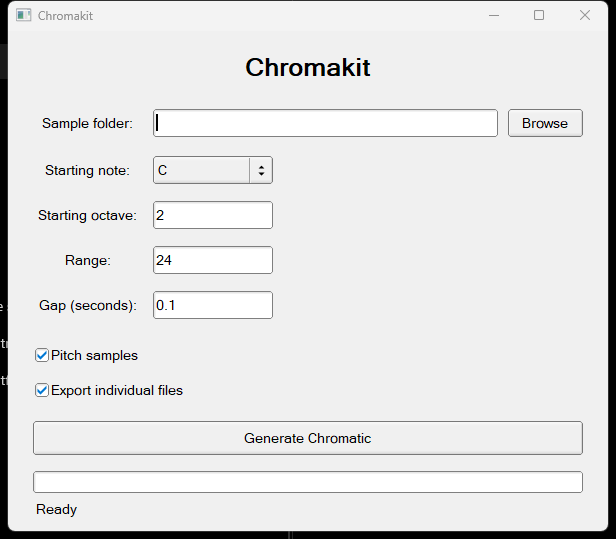
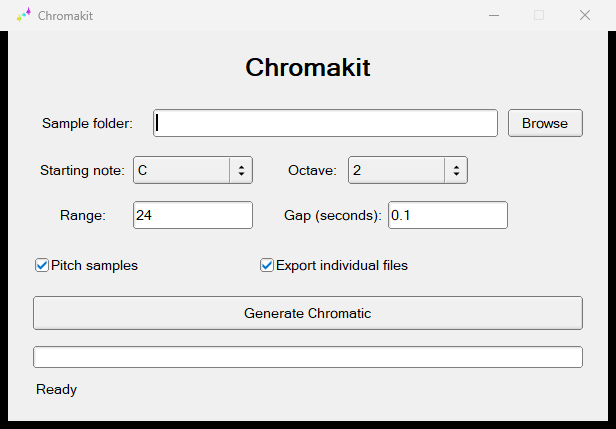
update readme pics

diff --git a/README.md b/README.md
@@ -7,7 +7,13 @@ Chromakit was previously developed under the codename Auralis.
 > [!WARNING]
 > Chromakit is in alpha. It is still barebones and will get updates as the app grows.
 
-![Chromakit](resources/chromakit-ui.png)
+Light mode:
+
+![Chromakit light mode](resources/chromakit-ui.png)
+
+Dark mode:
+
+![Chromakit dark mode](resources/chromakit-ui-dark.png)
 
 See the [release log](CHANGELOG.md) for changes in each version.
 
